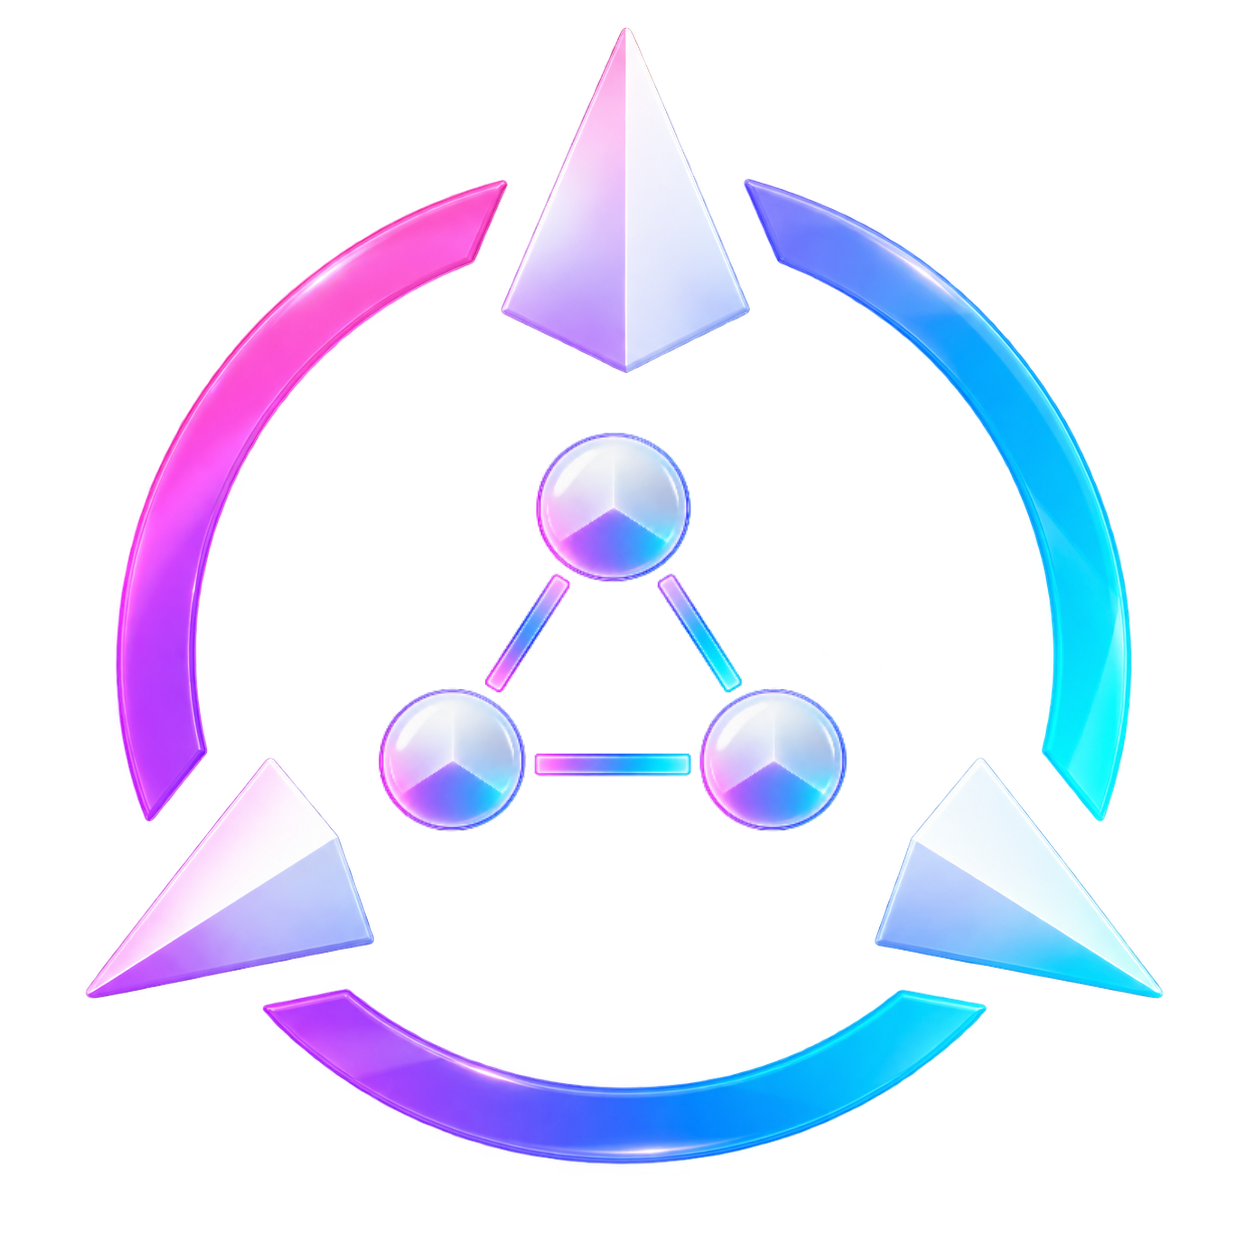
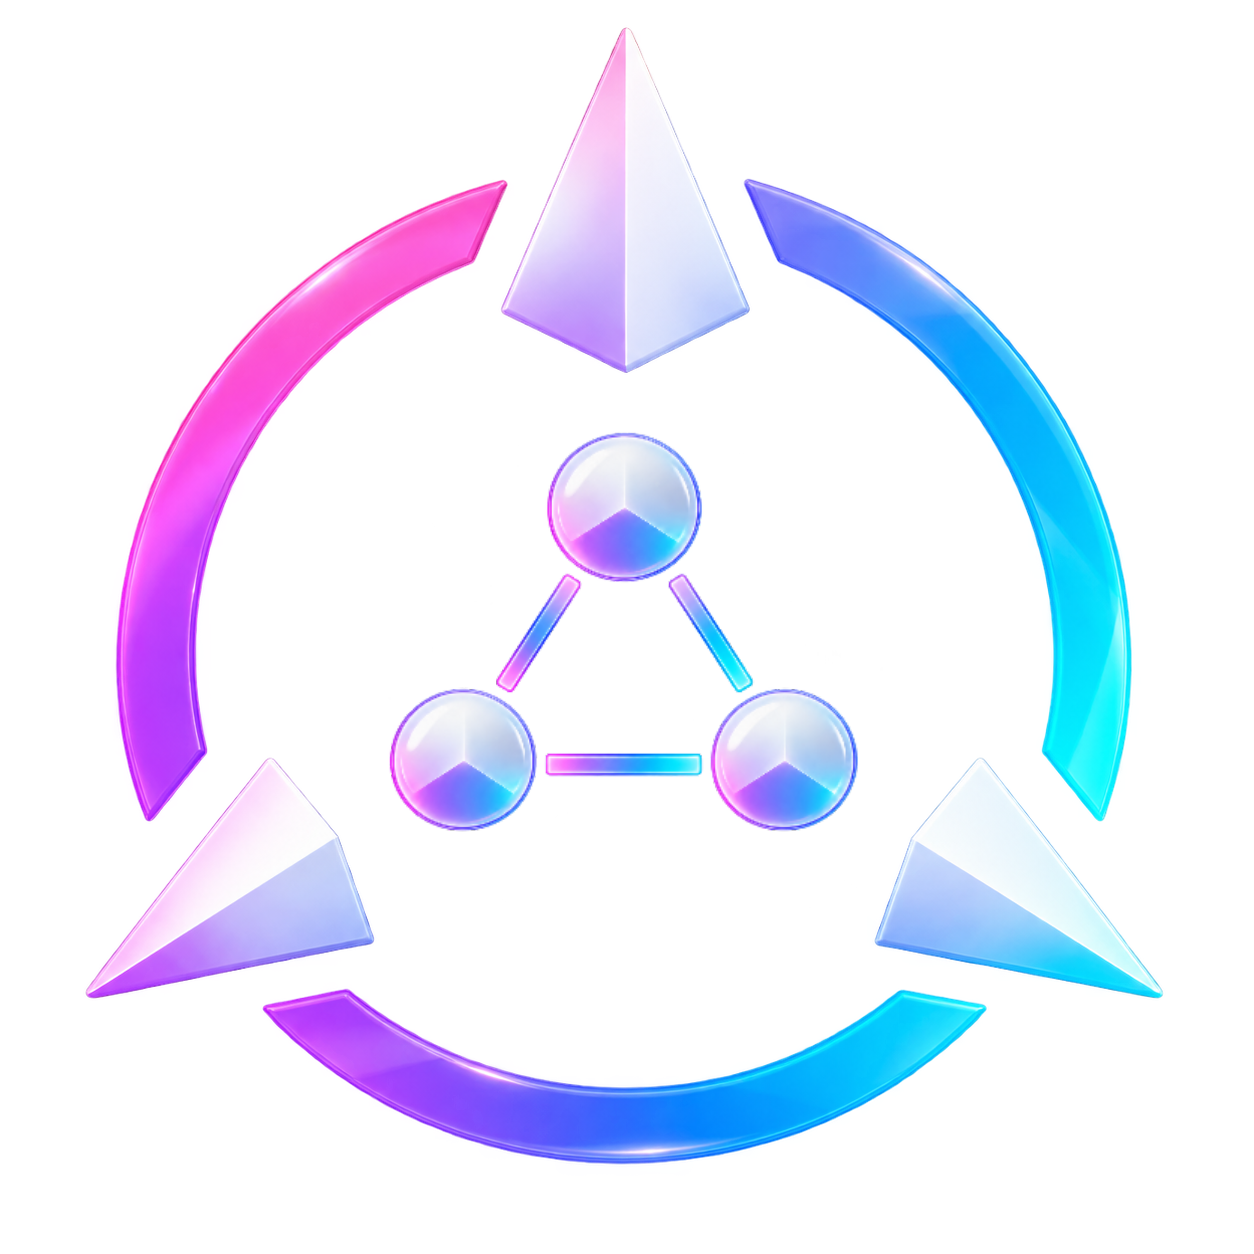
Adjust HomeSight center placement

Changed region(s): [[0.2799, 0.3421, 0.6842, 0.6842]]

diff --git a/assets/products/homesight/homesight-mark.md b/assets/products/homesight/homesight-mark.md
@@ -37,10 +37,23 @@ The accepted repair candidate removed only pixels that were proven byte-for-byte
 
 ## Validation
 
[2 lines of base64/hex data omitted]
 - Canvas: 1254×1254 RGBA
-- Accepted center artwork and intended Family Template geometry are unchanged.
+- Accepted Family Template geometry is unchanged.
 - The accepted PNG is the production visual authority.
+
+## 2026-10-07 center placement adjustment
+
+After the Family Template noise repair, the center artwork was manually repositioned for improved optical centering and explicitly accepted before public publication.
+
[2 lines of base64/hex data omitted]
+- changed-pixel bbox: `[332,405,910,885]`
+- changed pixels: `78483`
+- changed Family Template pixels: `0`
+- current Family Template pixel mismatches: `0`
+
+The adjustment changes only center-region artwork placement; every visible canonical Family Template pixel remains byte-for-byte identical.
 
 ## Center-mark reproduction intent
 
